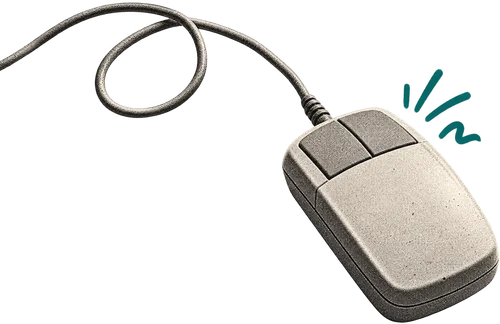
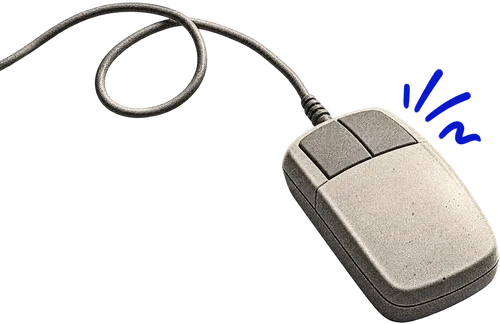
Switch the portfolio to the electric blue palette

Changed region(s): [[0.78, 0.216, 0.96, 0.463]]

diff --git a/mockups/og/index.html b/mockups/og/index.html
@@ -16,7 +16,7 @@
     }
     .tiles { position: absolute; inset: 0; display: grid; grid-template-columns: repeat(16, 1fr); align-content: start;
       -webkit-mask-image: linear-gradient(to bottom, #000, transparent 75%); mask-image: linear-gradient(to bottom, #000, transparent 75%); }
-    .tiles i { aspect-ratio: 1; background: #58b9ac; }
+    .tiles i { aspect-ratio: 1; background: #91aaff; }
     .shots { position: absolute; right: -80px; top: 60px; width: 520px; height: 520px; }
     .shot { position: absolute; width: 400px; border-radius: 10px; overflow: hidden; box-shadow: 0 30px 60px -20px rgba(0,0,0,.45); }
     .shot img { display: block; width: 100%; }
@@ -25,11 +25,11 @@
     .s3 { right: 130px; top: 300px; transform: rotate(-2deg); }
     .text { position: absolute; z-index: 2; left: 64px; bottom: 58px; }
     .status { display: inline-flex; align-items: center; gap: 10px; padding: 8px 14px; border-radius: 999px; background: rgba(232,232,228,.9); font-size: 17px; }
-    .status i { width: 10px; height: 10px; border-radius: 50%; background: #176f68; }
+    .status i { width: 10px; height: 10px; border-radius: 50%; background: #2547f5; }
     h1 { margin: 18px 0 6px; font-family: "Instrument Serif", serif; font-style: italic; font-weight: 400; text-transform: uppercase;
       font-size: 140px; line-height: .82; letter-spacing: -0.035em; }
     .role { font-family: "Instrument Serif", serif; text-transform: uppercase; font-size: 40px; letter-spacing: -0.01em; }
-    .role span { display: inline-block; border-bottom: 3px solid #176f68; padding-bottom: 4px; }
+    .role span { display: inline-block; border-bottom: 3px solid #2547f5; padding-bottom: 4px; }
     .url { position: absolute; left: 64px; top: 52px; font-size: 18px; }
   </style>
 </head>

diff --git a/src/styles.css b/src/styles.css
@@ -7,12 +7,12 @@
   --ink: #151515;
   --ink-2: #5a5a55;
   --line: rgba(21, 21, 21, 0.16);
-  /* teal palette */
-  --accent: #176f68;      /* Deep Teal — main accent, 6:1 with Pale Mint text */
-  --accent-mid: #238f83;  /* Teal — bright pixels, giant footer type */
-  --accent-soft: #58b9ac; /* Mint — hero tile field */
-  --accent-pale: #a5ddd5; /* Soft Mint — selection highlight */
-  --white: #e8f5f2;       /* Pale Mint — text on teal and ink */
+  /* electric blue palette */
+  --accent: #2547f5;      /* Electric Blue — main accent, readable on paper and under light text */
+  --accent-mid: #3d65ff;  /* Cobalt — bright pixels, giant footer type */
+  --accent-soft: #91aaff; /* Periwinkle — hero tile field */
+  --accent-pale: #dce4ff; /* Soft Blue — selection highlight */
+  --white: #f2f4ff;       /* Pale Blue — text on blue and ink */
 
   --serif: "Instrument Serif", "Times New Roman", serif;
   --mono: "Geist Mono", ui-monospace, "SFMono-Regular", Menlo, monospace;
@@ -1655,7 +1655,7 @@ ol {
   stroke-width: 4;
   opacity: 0;
   transition: opacity 0.3s ease;
-  filter: drop-shadow(0 0 6px rgba(23, 111, 104, 0.45));
+  filter: drop-shadow(0 0 6px rgba(37, 71, 245, 0.45));
 }
 .process__line {
   display: none;

diff --git a/src/components/Transition.tsx b/src/components/Transition.tsx
@@ -16,8 +16,8 @@ import { projects, site } from "../content";
 
 // ─────────────────────────────────────────────────────────────
 //  Full-viewport tile transition.
-//  boot  → teal tiles + wordmark + counter, dissolve in random order
-//  nav   → ink tiles (with a few teal "pixels") fill in random order,
+//  boot  → blue tiles + wordmark + counter, dissolve in random order
+//  nav   → ink tiles (with a few blue "pixels") fill in random order,
 //          the destination name rises in the middle, route changes,
 //          tiles dissolve to reveal the new page.
 // ─────────────────────────────────────────────────────────────

diff --git a/src/pages/Home.tsx b/src/pages/Home.tsx
@@ -390,7 +390,7 @@ function Services() {
 
 // ─────────────────────────────────────────────────────────────
 //  Process — a pencil-sketch desk (public/work/process-*.webp) with a
-//  teal path that draws itself as you scroll, visiting each step.
+//  blue path that draws itself as you scroll, visiting each step.
 //  All coordinates are in the sketch's own pixel space (1100 × 1430) and
 //  were picked to sit in the empty paper between the drawings.
 // ─────────────────────────────────────────────────────────────

diff --git a/src/components/SketchToScreen.tsx b/src/components/SketchToScreen.tsx
@@ -9,7 +9,7 @@ import ratios from "../generated/screen-ratios.json";
 //  Sketch to screen — the pencil wireframe of a project's first screen
 //  turns into the finished page as you scroll. Both images are the same
 //  size and layout (made by `npm run sketches`), so every box lines up.
-//  Desktop: the frame pins while a teal line sweeps across it.
+//  Desktop: the frame pins while a blue line sweeps across it.
 //  Phones: no pin; the sweep follows the frame through the screen.
 // ─────────────────────────────────────────────────────────────
 export function SketchToScreen({ p }: { p: Project }) {

diff --git a/src/components/TileField.tsx b/src/components/TileField.tsx
@@ -3,7 +3,7 @@ import { gsap, useGSAP, reducedMotion, finePointer } from "../lib/motion";
 import { useRevealed } from "./Transition";
 
 // ─────────────────────────────────────────────────────────────
-//  A field of teal squares. Tiles light up under the pointer
+//  A field of blue squares. Tiles light up under the pointer
 //  and fade back, leaving a short trail. Decorative only.
 // ─────────────────────────────────────────────────────────────
 

diff --git a/src/components/ContactBlock.tsx b/src/components/ContactBlock.tsx
@@ -16,7 +16,7 @@ const floating = [
   { w: "Colour", x: 86, y: 80 },
 ];
 
-/** The teal "start a project" block + footer, shared by every page. */
+/** The blue "start a project" block + footer, shared by every page. */
 export function ContactBlock({ compact = false }: { compact?: boolean }) {
   const root = useRef<HTMLElement>(null);
   const revealed = useRevealed();

diff --git a/index.html b/index.html
@@ -26,7 +26,7 @@
     <link rel="preload" href="/work/cogni-560.webp" as="image" />
     <style>
       /* paint the boot overlay colour before JS so there is no flash */
-      html { background: #176f68; }
+      html { background: #2547f5; }
     </style>
   </head>
   <body>
